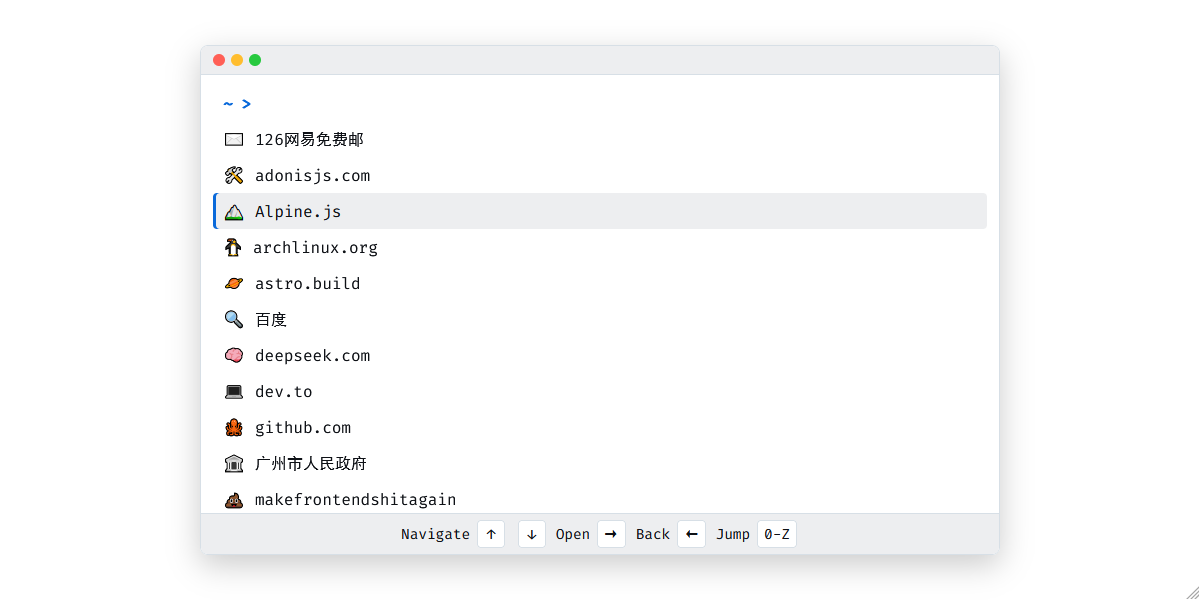
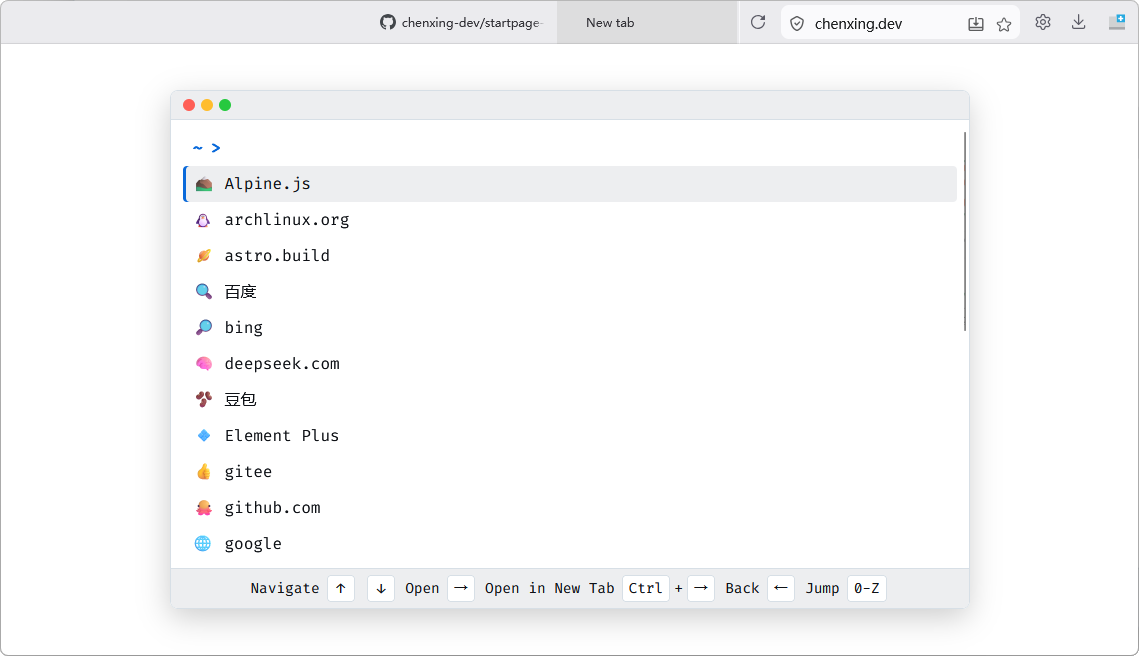
fix: update README to reflect bookmarks.json usage for customization

diff --git a/README.md b/README.md
@@ -12,7 +12,7 @@ A minimalistic browser startpage with terminal-style interface, featuring keyboa
   - Letter keys to jump to entries
   - Escape to go back
 - **Single File Implementation**: Just one HTML file with no build dependencies
-- **Customizable Bookmarks**: Easily edit the JavaScript array to add/remove entries
+- **Customizable Bookmarks**: Easily edit the `bookmarks.json` file to add/remove entries
 - **Responsive Design**: Works on all screen sizes
 
 ## Installation
@@ -29,17 +29,17 @@ c.url.start_pages = ["/path/to/startpage-alpine/index.html"]
 ```
 
 ## Customization
-Edit the `files` array in the HTML file to customize your bookmarks:
-```javascript
-files = [
+Bookmarks are loaded from the `bookmarks.json` file. Edit `bookmarks.json` to add, remove, or modify entries. Each entry should be an object with `name`, `icon`, and `href` fields, for example:
+```json
+[
   {
-    name: "Example Site",
-    icon: "⭐",
-    href: "https://example.com"
-  },
-  // ... other entries
-];
+    "name": "Example Site",
+    "icon": "⭐",
+    "href": "https://example.com"
+  }
+]
 ```
+After editing, reload the page to see the changes.
 
 ## Why Alpine.js?
 This version uses Alpine.js instead of Svelte/Astro from the [original startpage](https://github.com/chenxing-dev/startpage) for: